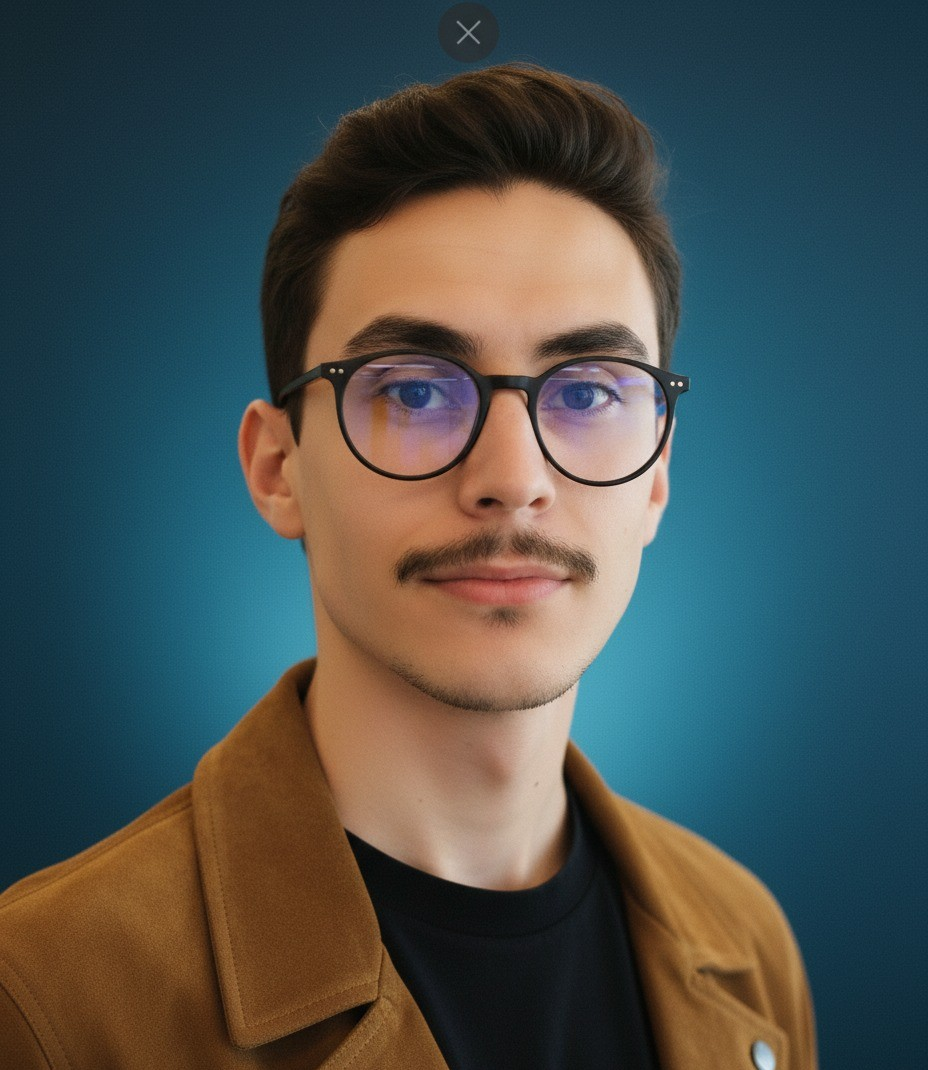
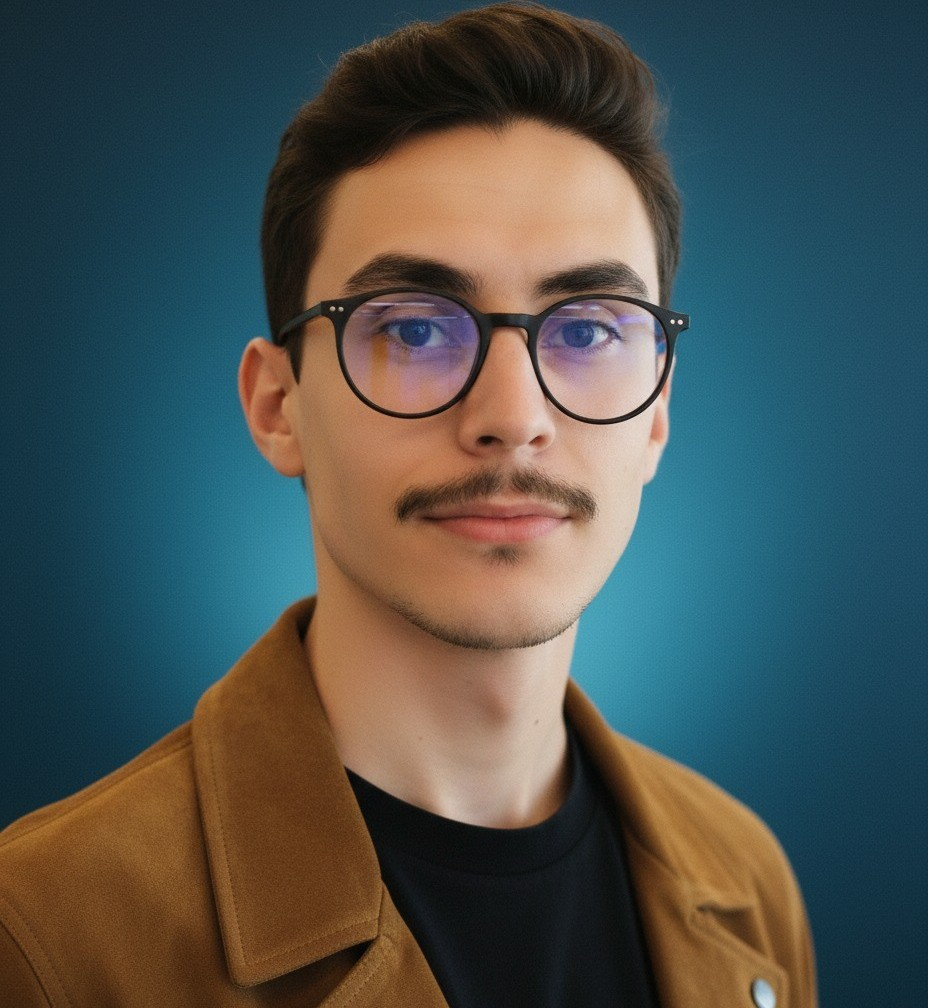
change image integration style

diff --git a/index.html b/index.html
@@ -103,28 +103,31 @@
             </li>
           </ul>
           <div class="flex flex-wrap md:justify-start justify-center gap-4 pt-8" aria-label="Primary actions" data-reveal>
-            <a href="/CV/CV_2025_DS_AI.pdf" class="btn-primary magnetic" data-i18n="cta.download" download>Download CV</a>
+            <a href="/CV/CV_2025_DS_AI.pdf" class="btn-primary magnetic" data-i18n="cta.download" download="CV_Hicham_ALAOUI.pdf">Download CV</a>
             <a href="mailto:halaoui@insea.ac.ma" class="btn-secondary magnetic" data-i18n="cta.email">Email me</a>
           </div>
         </div>
 
-        <!-- HERO (image column) -->
-        <figure class="relative mx-auto w-56 sm:w-64 md:w-72 aspect-[4/5]" data-reveal>
-          <!-- soft gradient glow -->
-          <div class="absolute -inset-1 rounded-[28px] bg-gradient-to-tr from-emerald-600/35 via-emerald-300/15 to-amber-400/35 blur-xl"></div>
-
-          <!-- portrait -->
+        <!-- HERO (image column, blended circle style) -->
+        <figure class="relative mx-auto w-56 sm:w-64 md:w-80 aspect-square" data-reveal>
+          <!-- soft gradient halo -->
+          <div class="absolute -inset-2 rounded-[36px] bg-gradient-to-tr from-emerald-600/30 via-emerald-300/10 to-amber-400/30 blur-2xl"></div>
+          <!-- concentric backdrop circles for blend-in effect -->
+          <div class="absolute inset-0 grid place-items-center">
+            <div class="h-[92%] w-[92%] rounded-full bg-neutral-900/65"></div>
+            <div class="absolute h-[66%] w-[66%] rounded-full bg-neutral-800/70"></div>
+          </div>
+          <!-- portrait (feathered circle mask) -->
           <picture>
-            <!-- AVIF/WebP can be added when assets are available -->
+            <!-- Add AVIF/WebP sources later if available -->
             <img
               src="/assets/images/profile/Generated%20Image%20September%2005,%202025%20-%209_02PM.jpeg"
               alt="Headshot of Hicham Alaoui"
-              width="576" height="720"
-              class="relative h-full w-full rounded-[24px] object-cover shadow-[0_10px_30px_rgba(0,0,0,0.35)] ring-1 ring-white/10 [animation:float_8s_ease-in-out_infinite] motion-reduce:animate-none"
-              fetchpriority="high" decoding="async"
+              width="720" height="720"
+              class="relative h-full w-full rounded-full object-cover shadow-[0_10px_30px_rgba(0,0,0,0.35)] ring-1 ring-white/10 grayscale contrast-110 brightness-110 [animation:float_8s_ease-in-out_infinite] motion-reduce:animate-none [-webkit-mask-image:radial-gradient(closest-side,white_64%,transparent_74%)] [mask-image:radial-gradient(closest-side,white_64%,transparent_74%)]"
+              decoding="async"
             />
           </picture>
-
           <figcaption class="sr-only">Hicham Alaoui</figcaption>
         </figure>
       </div>

diff --git a/styles.css b/styles.css
@@ -122,13 +122,7 @@ mix-blend-mode:normal;}
 .role-fade-leave {opacity:0;transform:translateY(-8px);}
 @media (prefers-reduced-motion:reduce){.role-fade-enter,.role-fade-leave{transition:none;transform:none;}}
 
-/* Hero avatar */
-.hero-avatar {position:absolute;right:6vw;top:12vh;z-index:-1;filter:drop-shadow(0 12px 30px rgba(0,0,0,.35));}
-.hero-avatar img {width:min(22vw,240px);height:auto;border-radius:20px;border:1px solid rgba(255,255,255,.22);background:#0b0f14;object-fit:cover;transform:translate3d(0,0,0);animation:floatY 8s ease-in-out infinite;}
-@keyframes floatY {0%,100%{transform:translateY(0)}50%{transform:translateY(-10px)}}
-@media (max-width:1024px){.hero-avatar{right:3vw;top:auto;bottom:8vh;}.hero-avatar img{width:min(28vw,220px);}}
-@media (max-width:640px){.hero-avatar{display:none;}}
-@media (prefers-reduced-motion:reduce){.hero-avatar img{animation:none;}}
+/* Hero portrait float animation is defined inline in <head> as @keyframes float */
 
 /* ================= Certification Grid ================= */
 .cert-grid {list-style:none;display:grid;gap:1.5rem;padding:0;margin:0 0 2rem;grid-template-columns:repeat(auto-fit,minmax(260px,1fr));}

diff --git a/script.js b/script.js
@@ -313,15 +313,13 @@ document.addEventListener('DOMContentLoaded', () => {
     btn.addEventListener('pointerleave', ()=> btn.style.transform='translate(0,0)');
   });
 
-  // Parallax hero
+  // Parallax hero (only if a .parallax-bg exists)
   const parallax = qs('.parallax-bg');
-  const avatar = document.querySelector('.hero-avatar img');
-  if(parallax || avatar){
+  if(parallax){
     const prefersReduced = matchMedia('(prefers-reduced-motion: reduce)').matches;
     if(!prefersReduced){
       window.addEventListener('scroll', () => {
-        const y = window.scrollY * 0.25; if(parallax) parallax.style.transform = `translateY(${y}px)`;
-        if(avatar){ avatar.style.transform = `translateY(${Math.sin(window.scrollY/300)*6}px)`; }
+        const y = window.scrollY * 0.25; parallax.style.transform = `translateY(${y}px)`;
       }, {passive:true});
     }
   }
